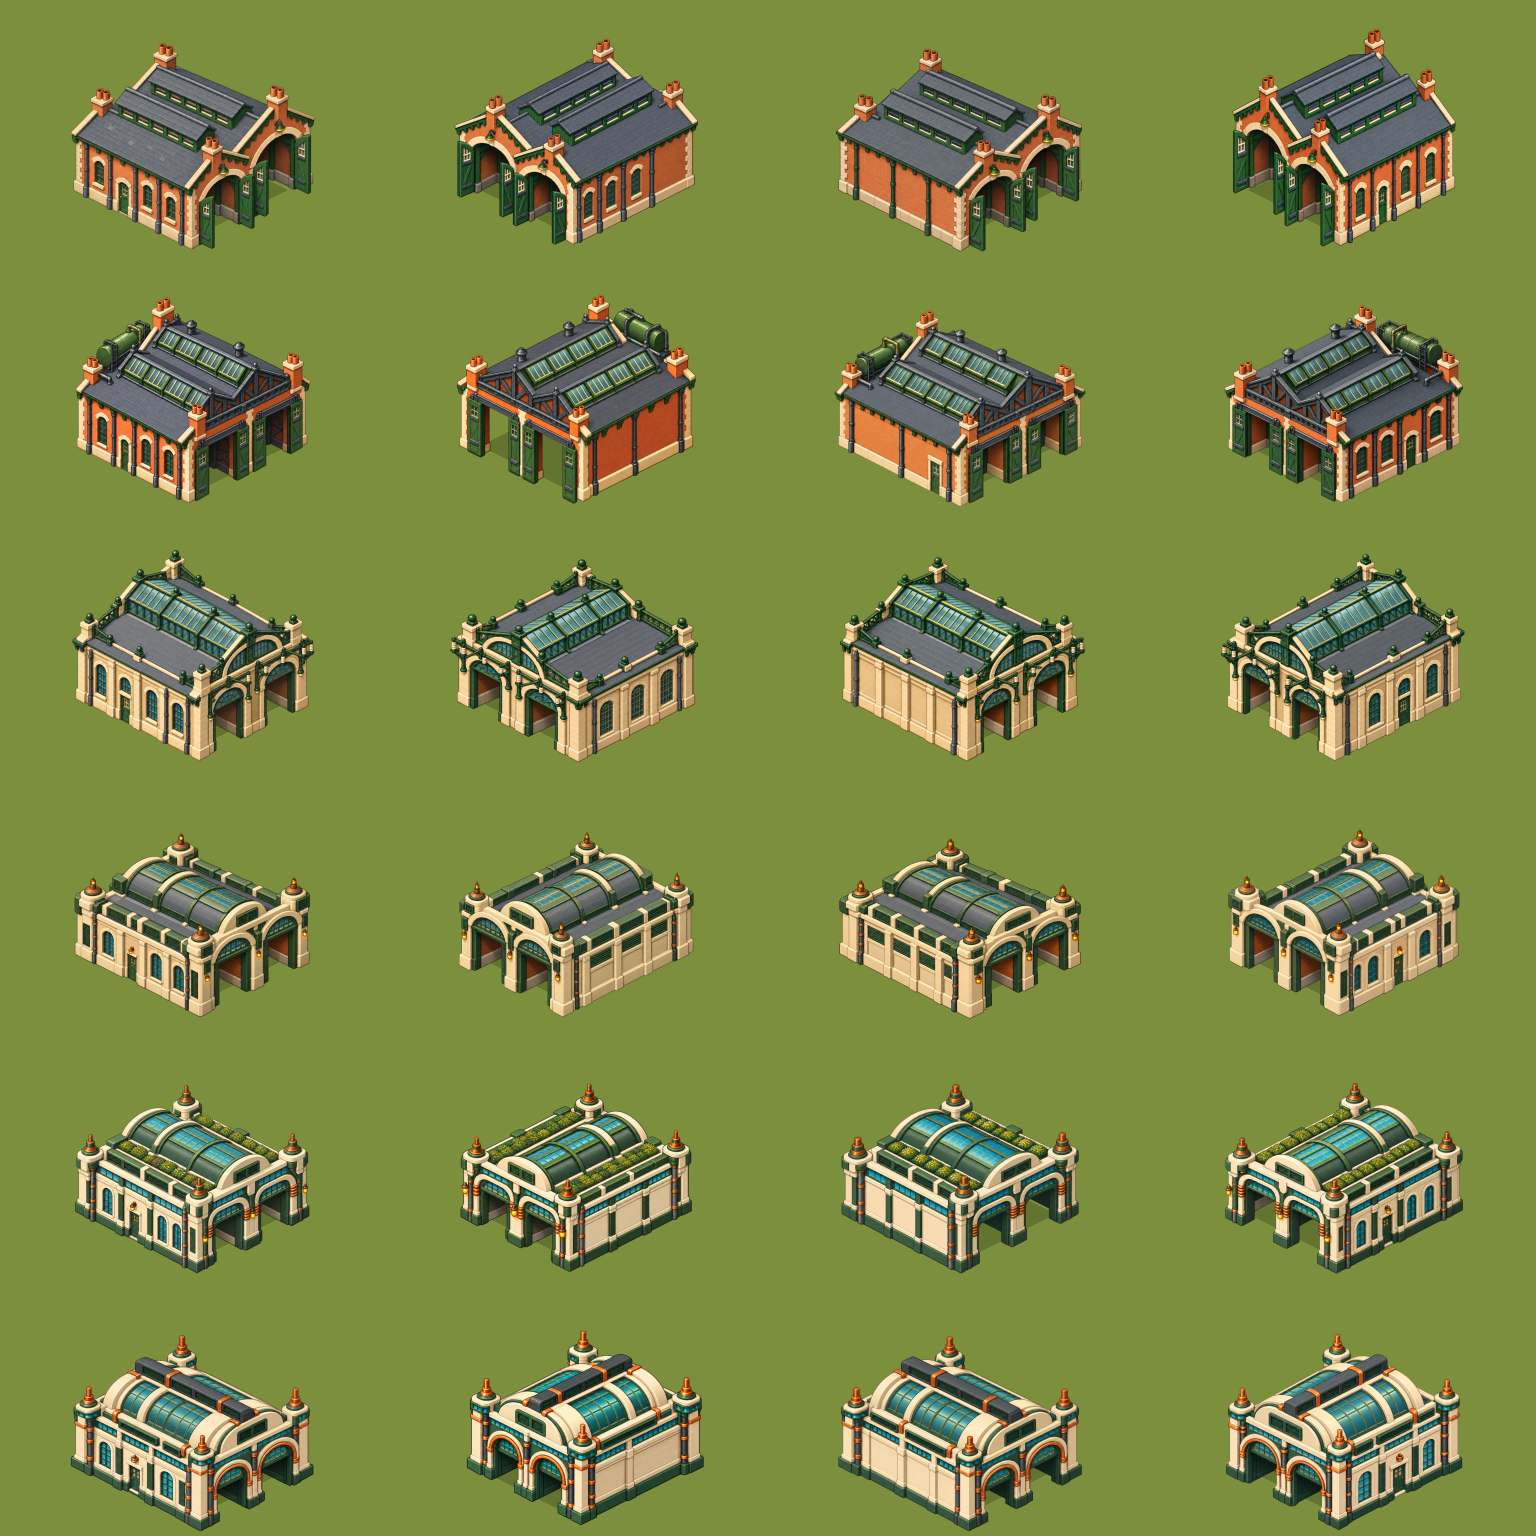
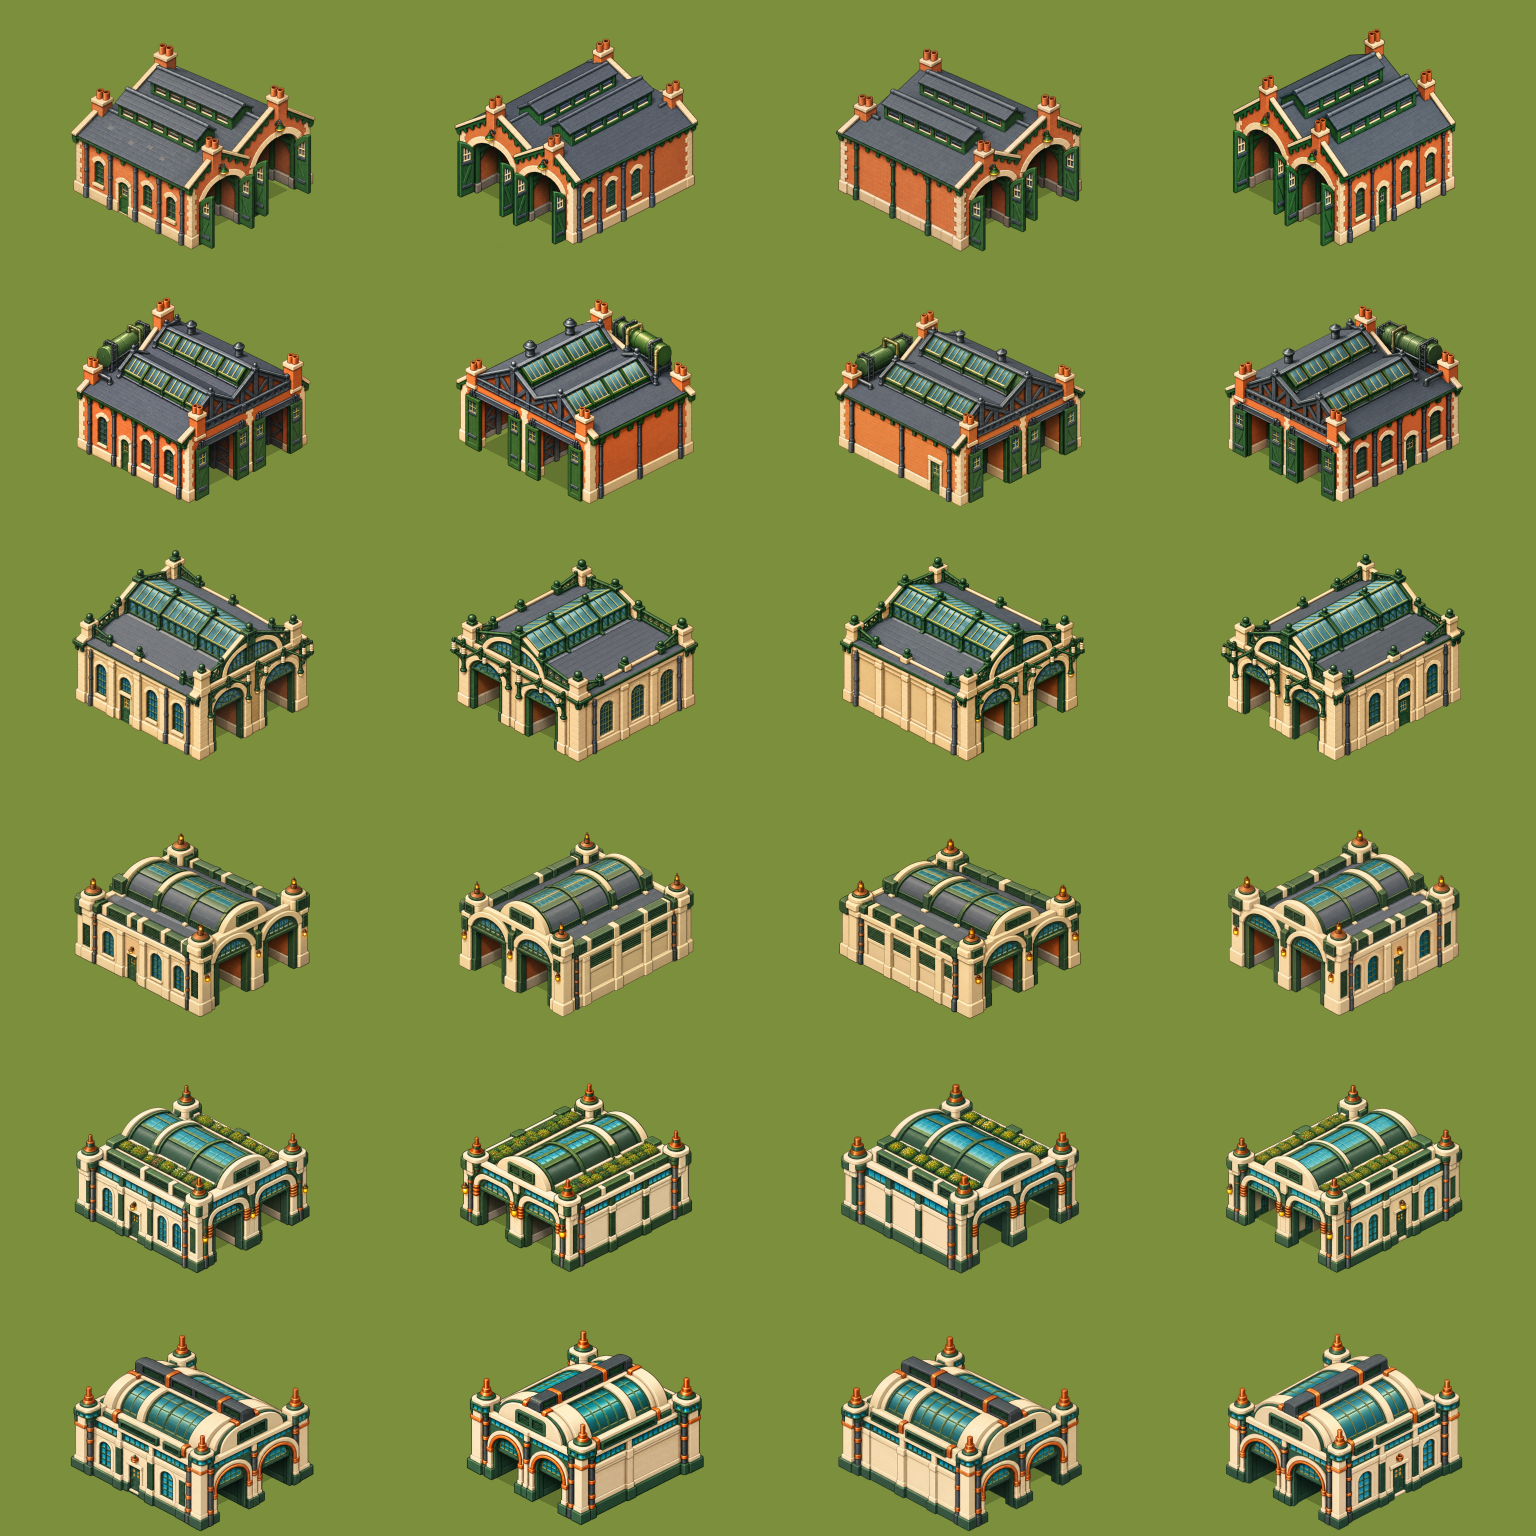
Buildings: depot, 24 of 24 pictures

Changed region(s): [[0.2812, 0.1875, 0.4688, 0.3438], [0.7812, 0.6875, 0.9688, 0.8438]]

diff --git a/assets/source/buildings-v2/review/index.html b/assets/source/buildings-v2/review/index.html
@@ -23,7 +23,7 @@
   <p>24 of 24 made, 3 kept with the camera off. Rows: Steam, Diesel, Electric, Nuclear, Magnetic, Hyper. Columns: r0 (front lower left), r1, r2, r3 (front lower right).</p>
   <img src="depot.png" alt="Depot: every age and view" loading="lazy" />
   <p><a href="depot-angles.png">The same sheet with the footprint and the wall lines drawn in</a>. Ground lines as measured, lower left / lower right (the game's are 0.50 / -0.50), marked where the camera is further than 2° from the game's:</p>
-  <table><tr><th></th><th>r0</th><th>r1</th><th>r2</th><th>r3</th><th>sizes apart</th></tr><tr><th>Steam</th><td class="">0.56 / -0.50</td><td class="">0.52 / -0.51</td><td class="off">0.58 / -0.47</td><td class="off">0.41 / -0.44</td><td class="">x1.10</td></tr><tr><th>Diesel</th><td class="">0.51 / -0.48</td><td class="">0.49 / -0.52</td><td class="">0.54 / -0.48</td><td class="">0.50 / -0.49</td><td class="">x1.06</td></tr><tr><th>Electric</th><td class="">0.51 / -0.47</td><td class="">0.51 / -0.54</td><td class="off">0.54 / -0.45</td><td class="">0.50 / -0.51</td><td class="">x1.02</td></tr><tr><th>Nuclear</th><td class="">0.52 / -0.48</td><td class="">0.50 / -0.56</td><td class="">0.52 / -0.51</td><td class="">0.46 / -0.49</td><td class="">x1.05</td></tr><tr><th>Magnetic</th><td class="">0.51 / -0.47</td><td class="">0.48 / -0.53</td><td class="">0.54 / -0.49</td><td class="">0.52 / -0.51</td><td class="">x1.03</td></tr><tr><th>Hyper</th><td class="">0.54 / -0.50</td><td class="">0.49 / -0.53</td><td class="">0.51 / -0.47</td><td class="">0.50 / -0.51</td><td class="">x1.11</td></tr></table>
+  <table><tr><th></th><th>r0</th><th>r1</th><th>r2</th><th>r3</th><th>sizes apart</th></tr><tr><th>Steam</th><td class="">0.56 / -0.50</td><td class="">0.52 / -0.51</td><td class="off">0.58 / -0.47</td><td class="off">0.41 / -0.44</td><td class="">x1.10</td></tr><tr><th>Diesel</th><td class="">0.51 / -0.48</td><td class="">0.48 / -0.51</td><td class="">0.54 / -0.48</td><td class="">0.50 / -0.49</td><td class="">x1.06</td></tr><tr><th>Electric</th><td class="">0.51 / -0.47</td><td class="">0.51 / -0.54</td><td class="off">0.54 / -0.45</td><td class="">0.50 / -0.51</td><td class="">x1.02</td></tr><tr><th>Nuclear</th><td class="">0.52 / -0.48</td><td class="">0.50 / -0.56</td><td class="">0.52 / -0.51</td><td class="">0.46 / -0.49</td><td class="">x1.05</td></tr><tr><th>Magnetic</th><td class="">0.51 / -0.47</td><td class="">0.48 / -0.53</td><td class="">0.54 / -0.49</td><td class="">0.53 / -0.49</td><td class="">x1.03</td></tr><tr><th>Hyper</th><td class="">0.54 / -0.50</td><td class="">0.49 / -0.53</td><td class="">0.51 / -0.47</td><td class="">0.50 / -0.51</td><td class="">x1.11</td></tr></table>
   <ul><li class="note"><code>depot-a0-r2</code>: camera off by 3.0°: the building is turned 3.0° towards its lower-right wall (the wall feet slope 0.58 and -0.47, the game's 0.50 and -0.50); kept, and corrected by the tools</li><li class="note"><code>depot-a0-r3</code>: camera off by 5.0°: it looks down from 25.0° where the game looks down from 30° (the wall feet slope 0.41 and -0.44, the game's 0.50 and -0.50); kept, and corrected by the tools</li><li class="note"><code>depot-a2-r2</code>: camera off by 2.5°: the building is turned 2.5° towards its lower-right wall (the wall feet slope 0.54 and -0.45, the game's 0.50 and -0.50); kept, and corrected by the tools</li></ul>
 </section>
 <section id="station">

diff --git a/assets/source/buildings-v2/review/depot-notes.md b/assets/source/buildings-v2/review/depot-notes.md
@@ -1,32 +1,32 @@
 # Depot gate review
 
-The four portal-ground repairs requested on October 6, 2026 are complete.
+The two follow-up portal-interior repairs requested on October 6, 2026 are complete.
 All 24 depot pictures are recorded as generated; the updated family check reports
 24 checked, 0 failed. The depot gate remains closed, awaiting user approval.
 
 Review `depot.png` for the family and `depot-angles.png` for footprint alignment.
 The individual `.look` previews show the game's rails beneath the sprites:
-both rails visibly run into both portals in each repaired picture.
+Each repaired portal shows the hall's inner wall in shadow, with an unpainted
+ground wedge below it where the game's rails run into the hall.
 
 | Repainted picture | Attempts | Result |
 | --- | --- | --- |
-| depot-a1-r1 | 2 | Plain rear wall; portals on lower-left; ground transparent |
-| depot-a4-r2 | 2 | Plain rear wall; portals on lower-right; ground transparent |
-| depot-a4-r3 | 2 | Front on lower-right; portals on lower-left; ground transparent |
-| depot-a5-r2 | 1 | Plain rear wall; portals on lower-right; ground transparent |
+| depot-a1-r1 | 3 | Plain rear wall; lower-left portals with inner walls and rails below |
+| depot-a4-r3 | 1 | Front on lower-right; lower-left portals with inner walls and rails below |
 
-These were fresh guide-image edits using each age's front-view reference and the
-queue's updated prompts. The first diesel and magnetic r3 attempts copied the
-front reference's orientation; targeted correction paragraphs fixed the portal
-wall and rotated the roof with the hall. Magnetic r2's first attempt passed the
-portal-ground check but was refused only for camera; its second attempt passed.
-No repair needed a third attempt, `keep`, or rejection.
+Both started as guide-image edits using their age's front-view reference and the
+queue's printed prompt, followed by the user's exact portal paragraph. Diesel's
+first attempt lost one of its two rooflights. Its second restored the rooflights
+and portal interiors but was refused only for a 2.5-degree camera error. The third
+used the queue's fitted earlier attempt and passed. Magnetic r3 passed on its first
+attempt. Neither needed the additional sentence about higher unpainted ground.
+The earlier depot-a4-r2 and depot-a5-r2 repairs were left unchanged.
 
 ## Camera record
 
 The user accepted the cameras of all 24 earlier pictures. Three existing camera
 markers remain in the queue: depot-a0-r2 at 3.0 degrees, depot-a0-r3 at 5.0 degrees,
-and depot-a2-r2 at 2.5 degrees. None of the four new pictures has a camera exception.
+and depot-a2-r2 at 2.5 degrees. Neither new picture has a camera exception.
 No depot pictures remain rejected.
 
 ## Earlier visual findings
